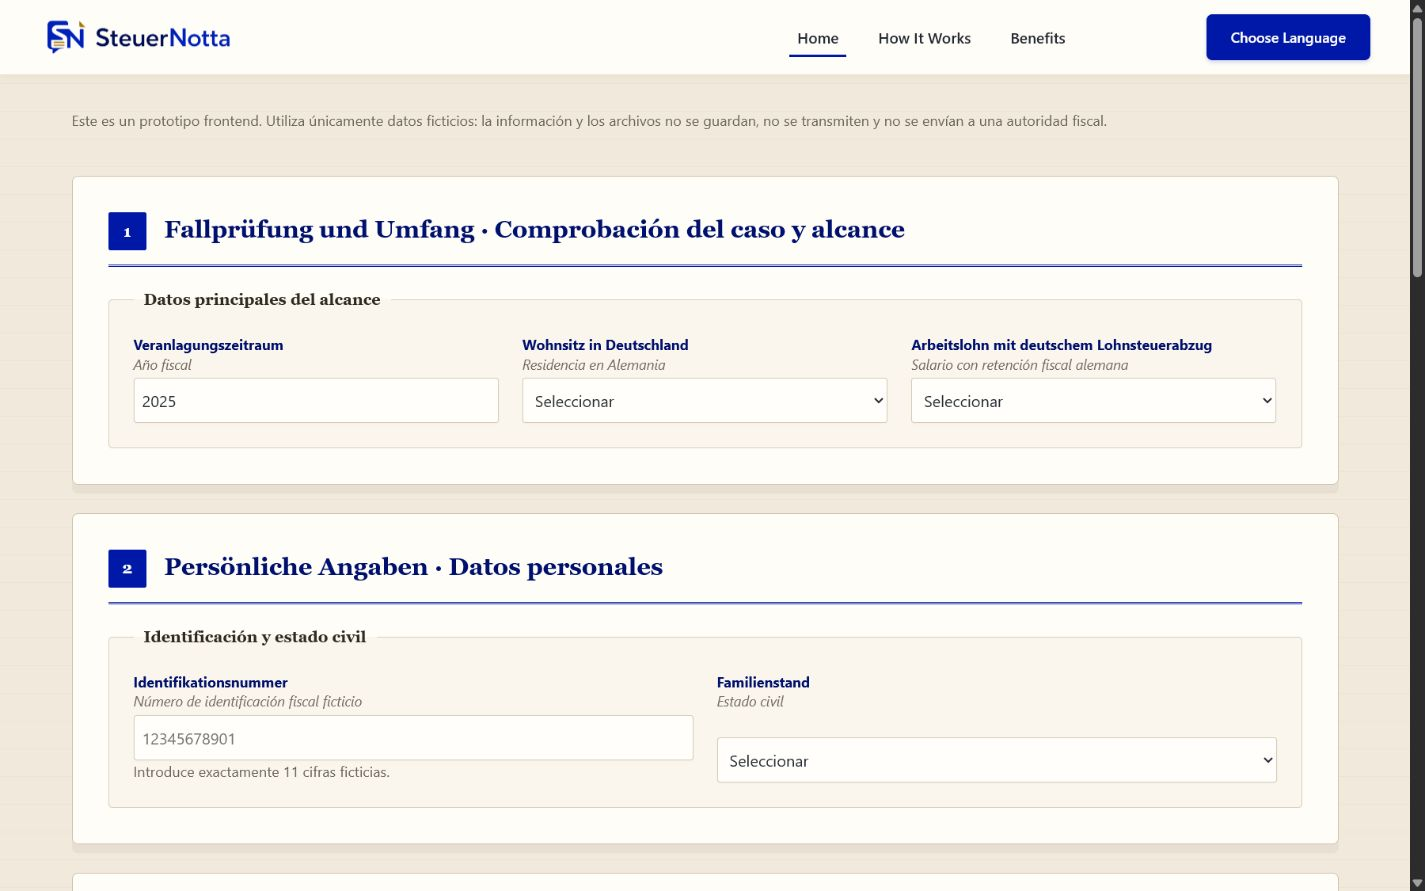
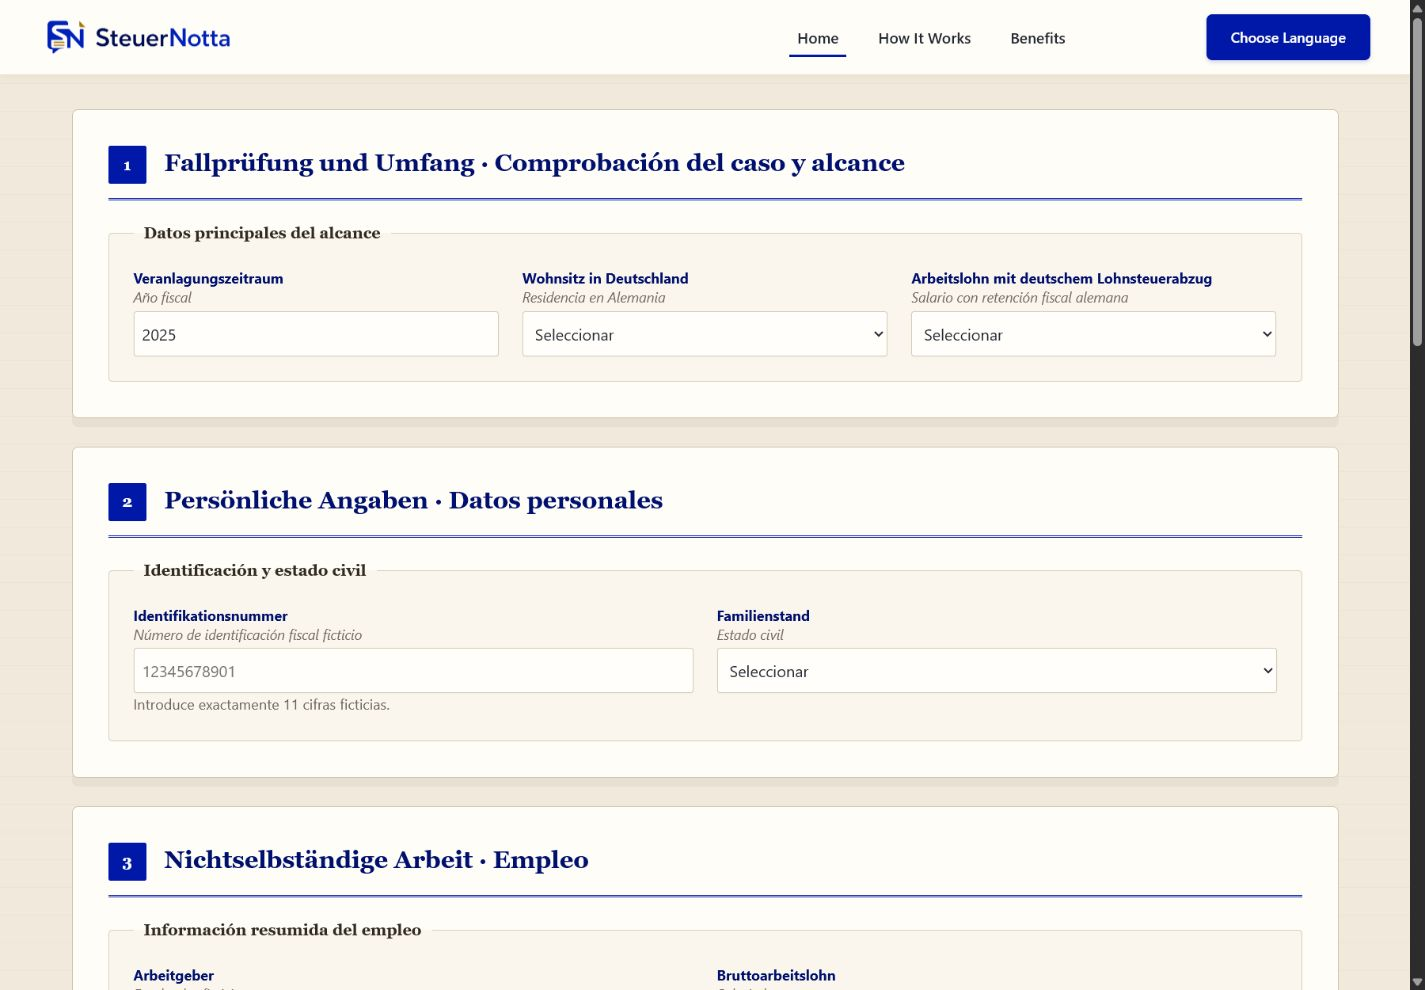
Align form fields and refresh responsive evidence

diff --git a/form-de-de.html b/form-de-de.html
@@ -59,11 +59,6 @@
         <form id="fallprufung-form" autocomplete="off"
             aria-label="Vereinfachter deutscher Entwurf des SteuerNotta-Formulars">
 
-            <p class="field-note">
-                Dies ist ein Frontend-Prototyp. Verwenden Sie ausschließlich fiktive Daten: Informationen und Dateien
-                werden weder gespeichert noch übertragen oder an eine Finanzbehörde gesendet.
-            </p>
-
             <!-- =========================================================
                  1. Fallprüfung und Umfang
                  ========================================================= -->

diff --git a/form-es-de.html b/form-es-de.html
@@ -60,11 +60,6 @@
         <form id="fallprufung-form" autocomplete="off"
             aria-label="Borrador simplificado del formulario SteuerNotta en alemán y español">
 
-            <p class="field-note">
-                Este es un prototipo frontend. Utiliza únicamente datos ficticios: la información y los archivos no se
-                guardan, no se transmiten y no se envían a una autoridad fiscal.
-            </p>
-
             <!-- =========================================================
                  1. Case review and scope
                  ========================================================= -->

diff --git a/form-en-de.html b/form-en-de.html
@@ -60,11 +60,6 @@
         <form id="fallprufung-form" autocomplete="off"
             aria-label="Simplified SteuerNotta form draft in German and English">
 
-            <p class="field-note">
-                This is a frontend prototype. Use fictitious data only: information and files are not saved,
-                transmitted or sent to a tax authority.
-            </p>
-
             <!-- =========================================================
                  1. Case review and scope
                  ========================================================= -->

diff --git a/assets/css/styleform.css b/assets/css/styleform.css
@@ -523,6 +523,12 @@ main {
     margin-top: auto;
 }
 
+#fallprufung-form [data-field-group="FULL-MAIN"] .field > input:not([type="checkbox"]):not([type="radio"]),
+#fallprufung-form [data-field-group="FULL-MAIN"] .field > select {
+    /* Aligns both personal-information controls below their labels. */
+    margin-top: 0;
+}
+
 #fallprufung-form .field > textarea {
     /* Allows users to expand longer notes without changing the width. */
     resize: vertical;
